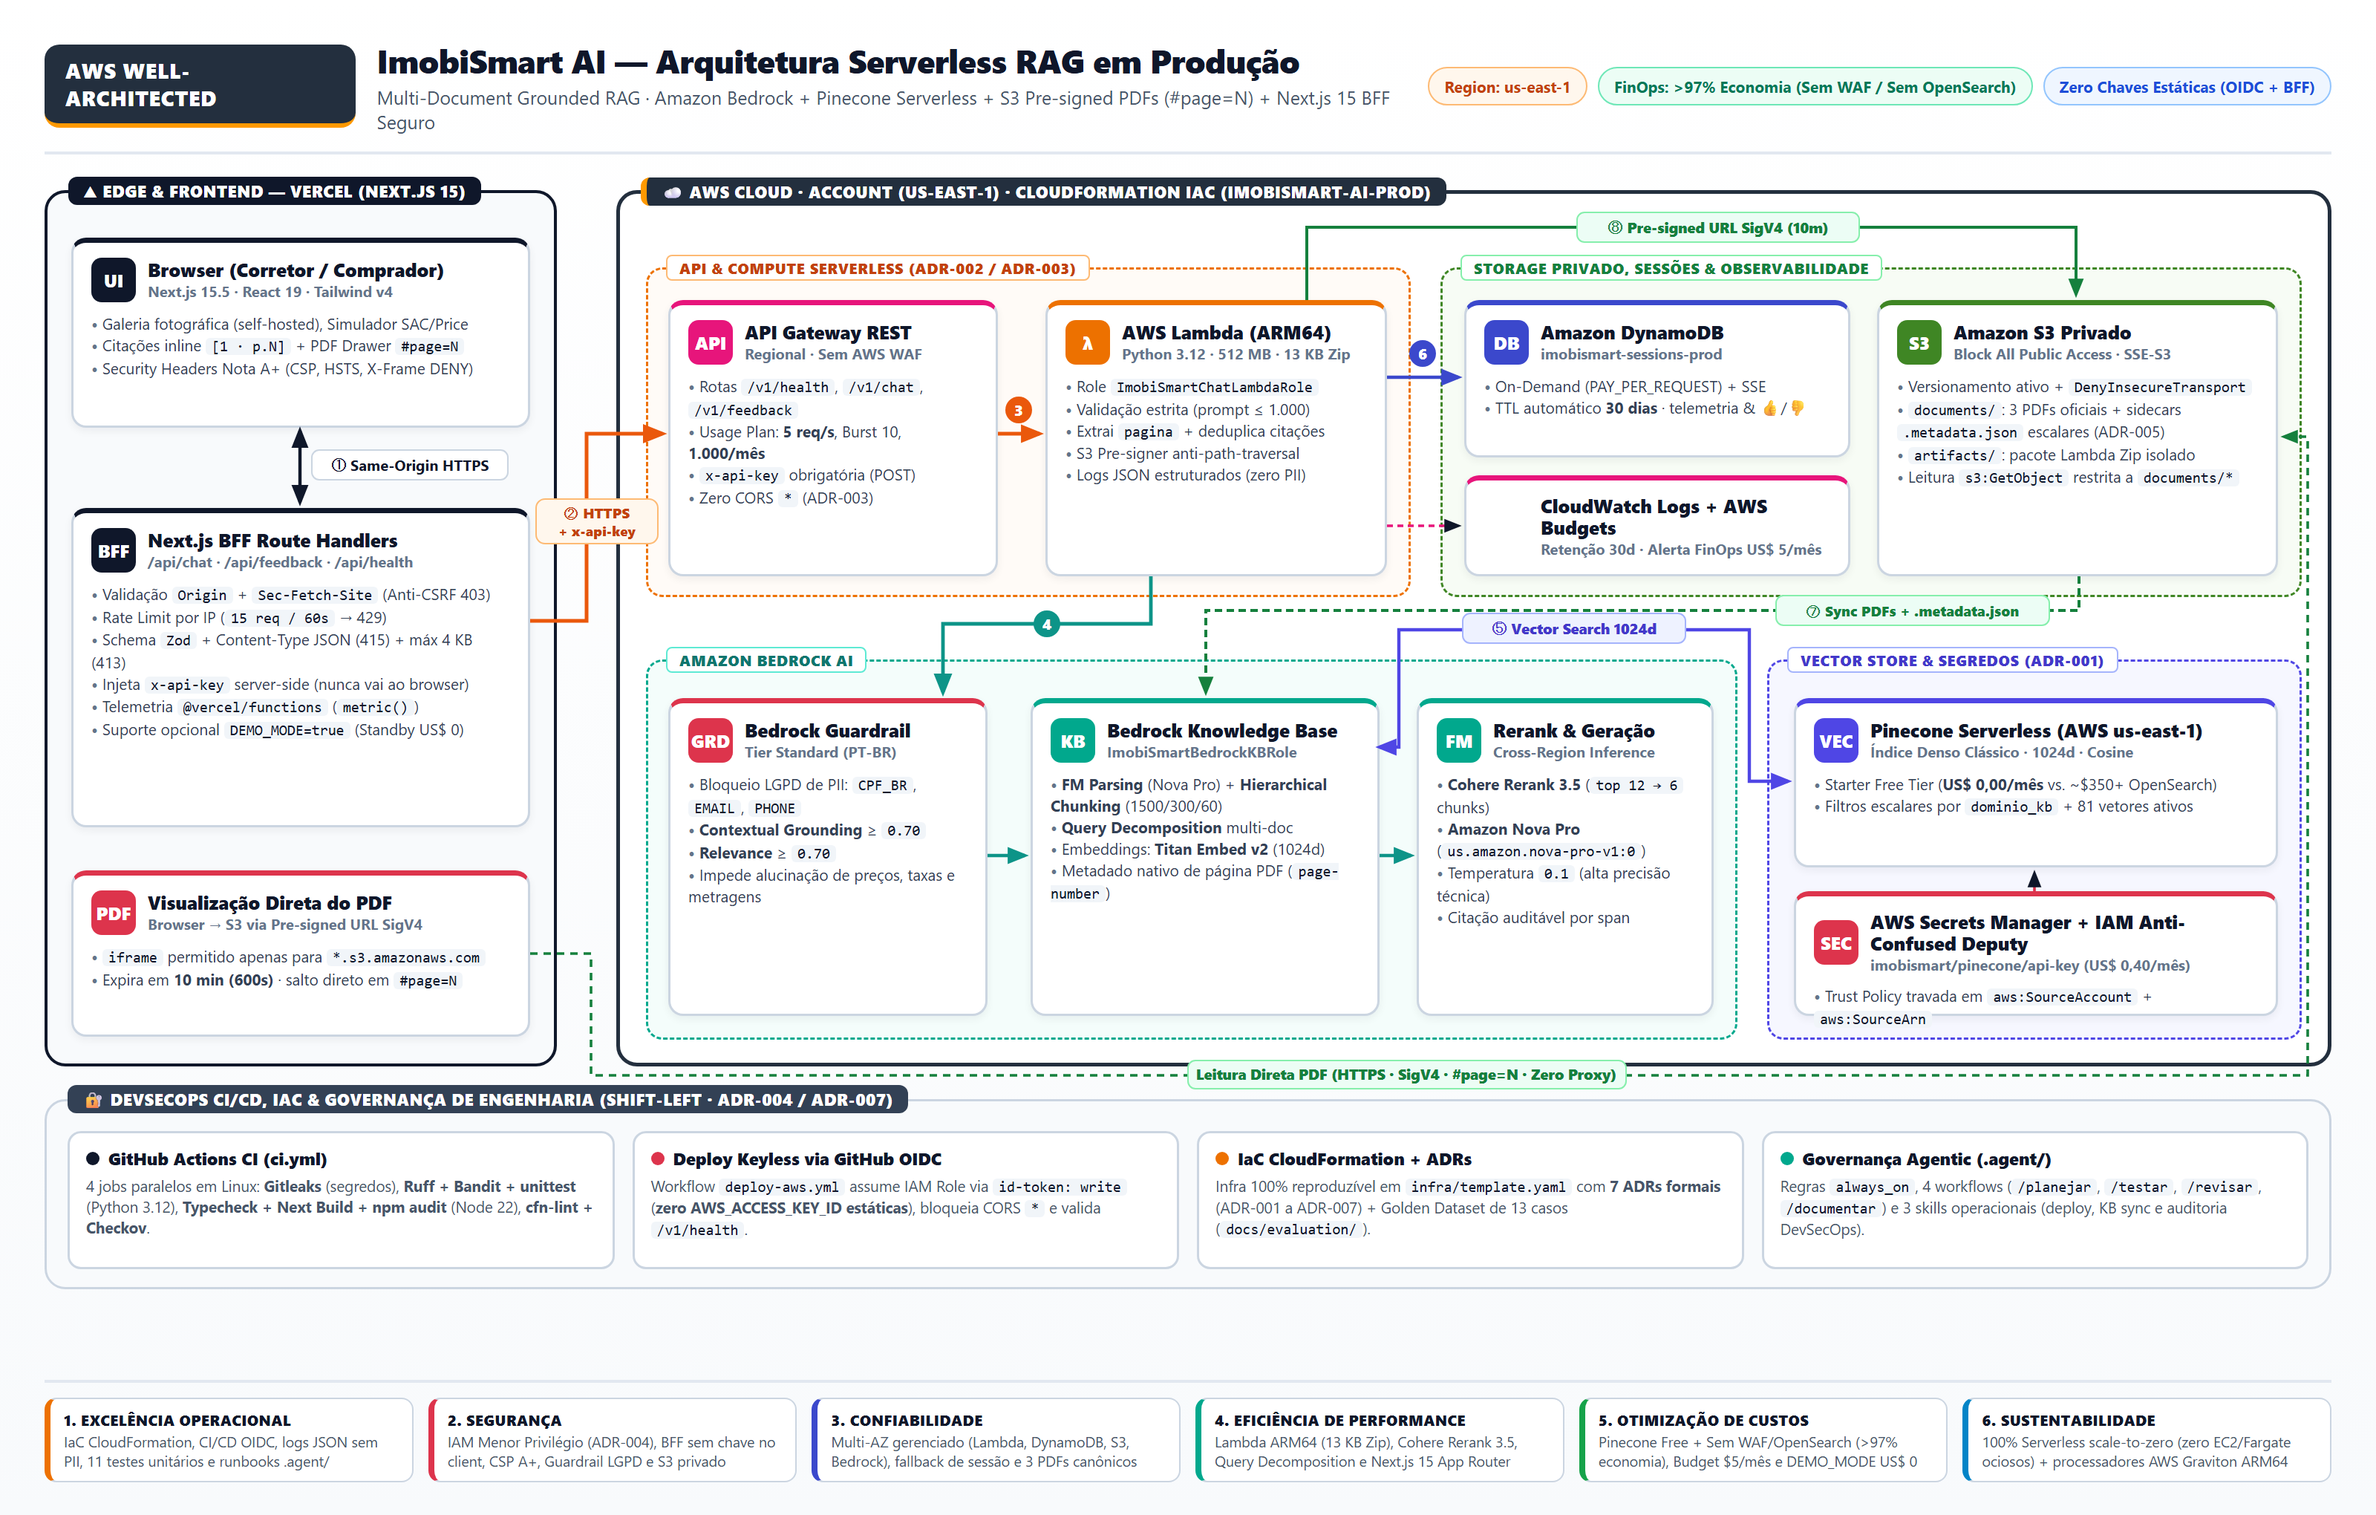
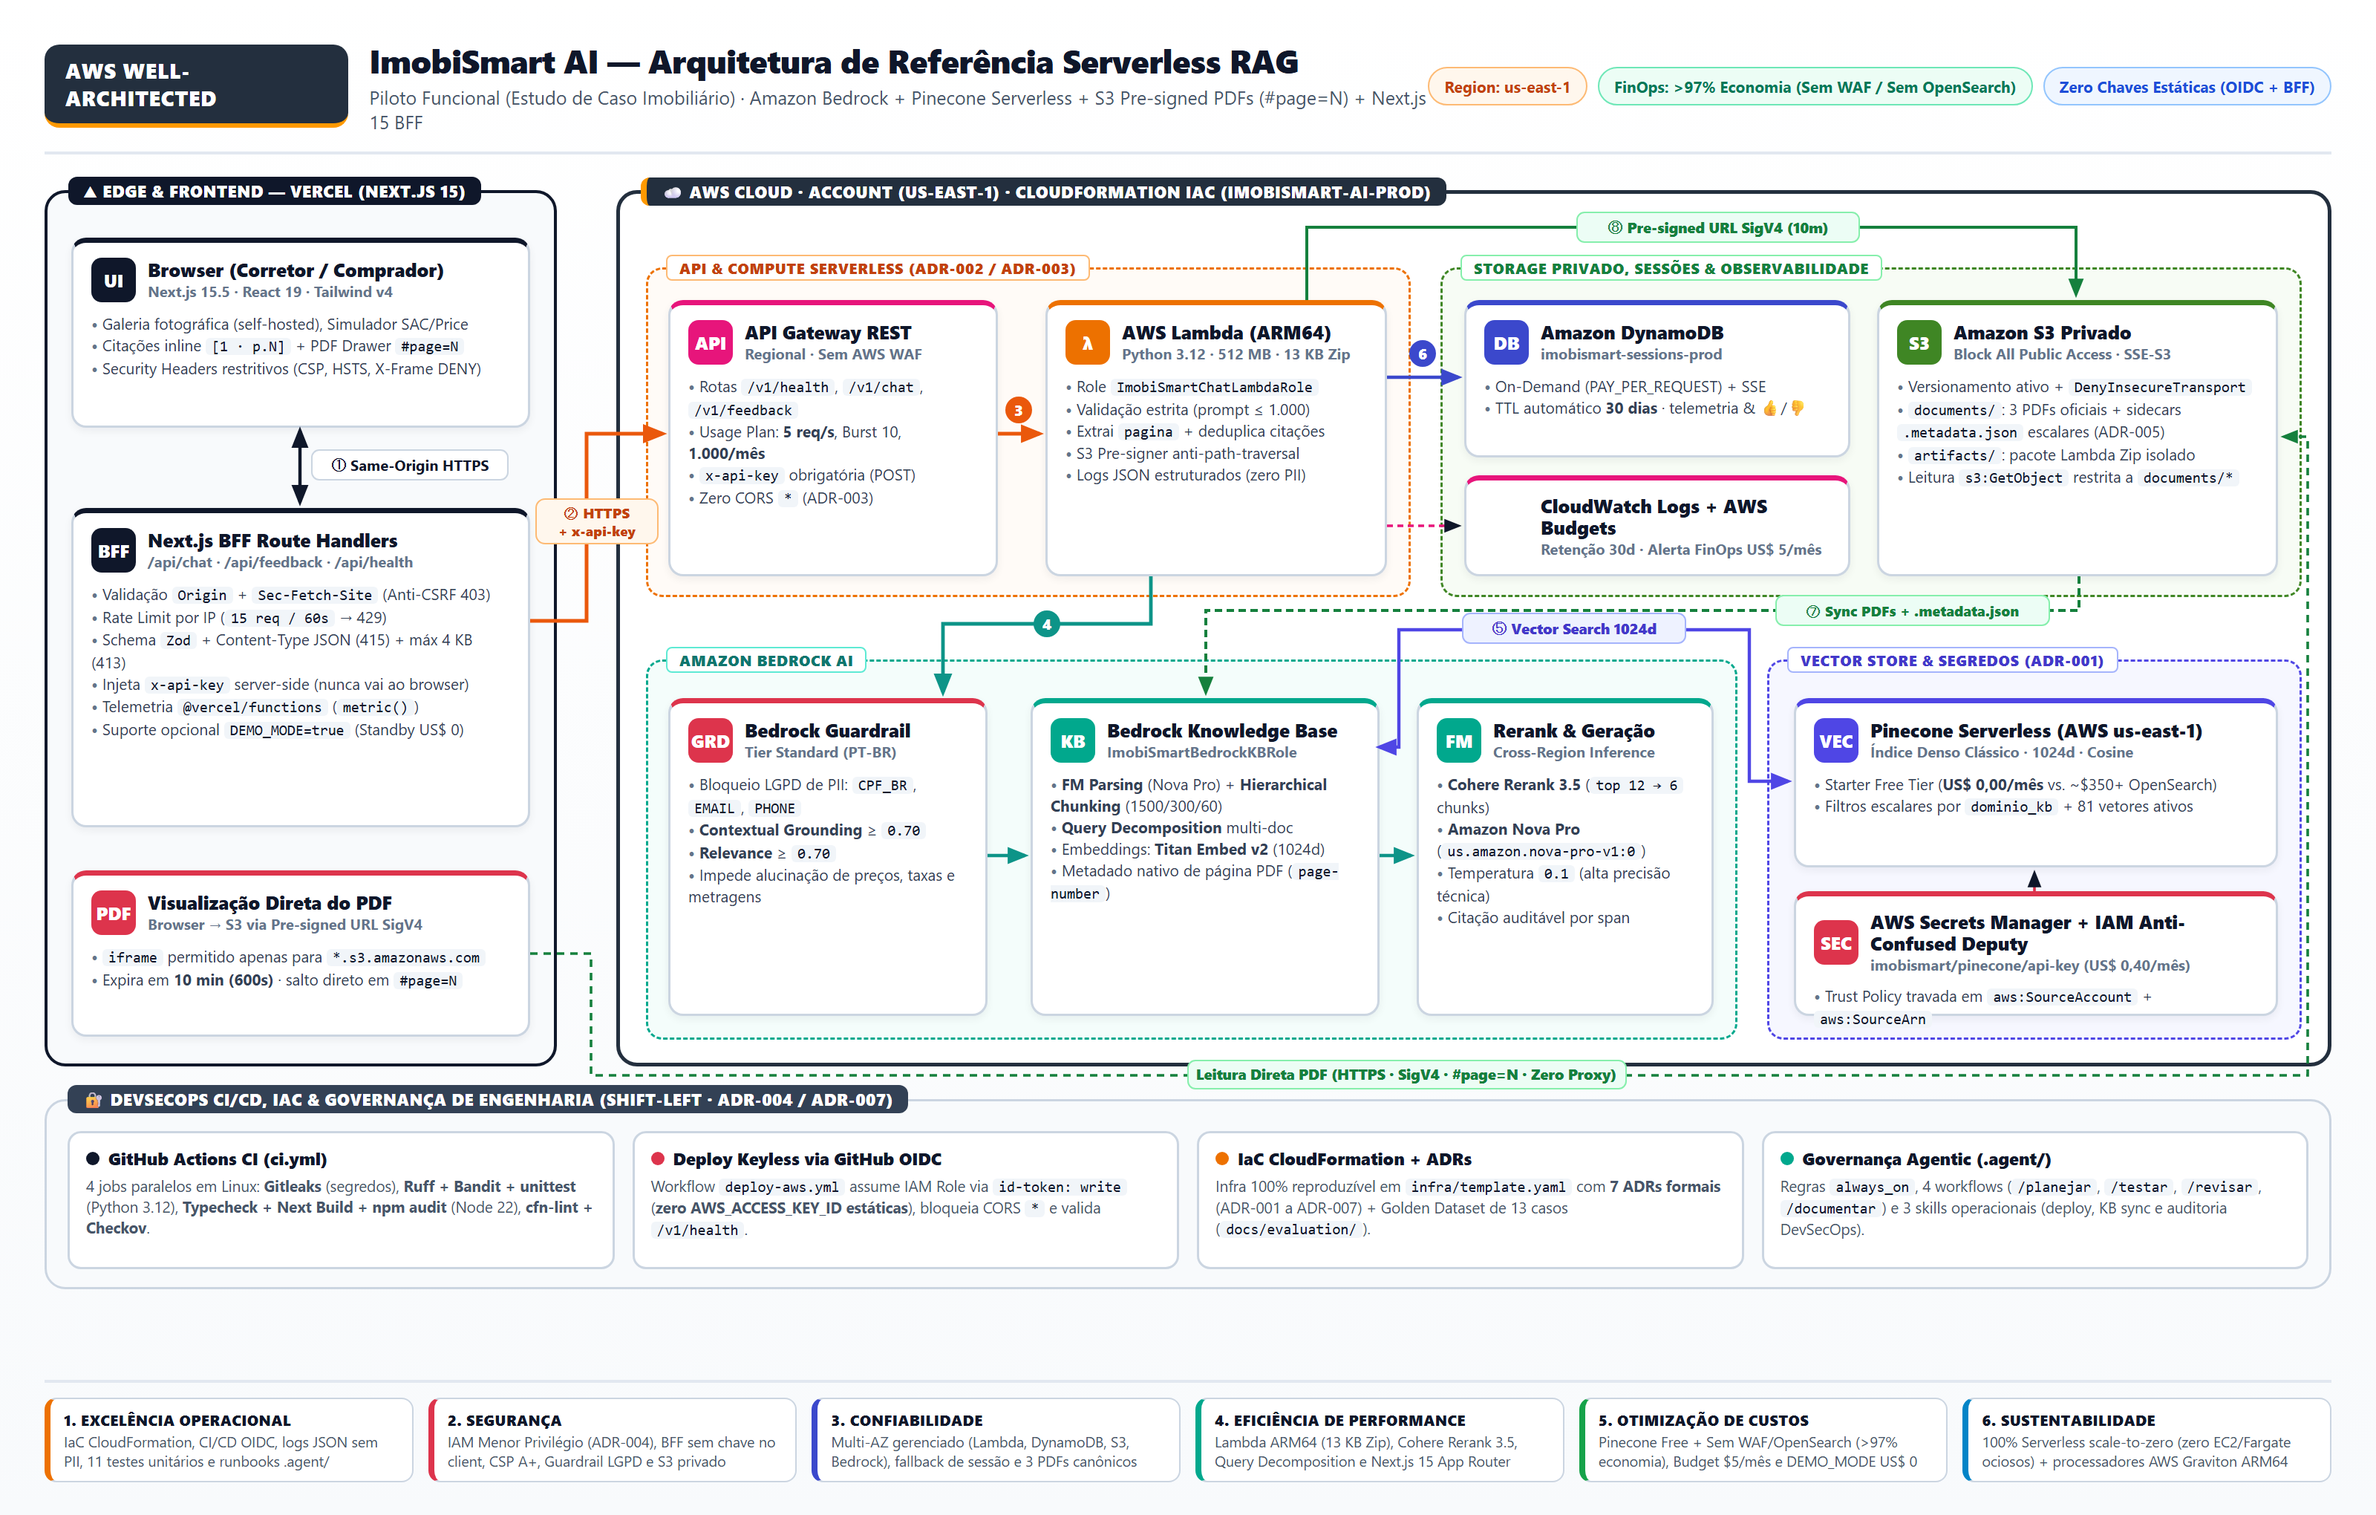
docs: frame project soberly as a Serverless RAG reference architecture and document pilot scope

Changed region(s): [[0.125, 0.0309, 0.5938, 0.0926], [0.0938, 0.2162, 0.1875, 0.2471]]

diff --git a/README.md b/README.md
@@ -8,21 +8,21 @@
 ![DevSecOps](https://img.shields.io/badge/DevSecOps-OIDC_+_Zero_Wildcard_IAM-DD344C?style=flat-square)
 ![License](https://img.shields.io/badge/License-MIT-16A34A?style=flat-square)
 
-> **Copiloto técnico-comercial RAG pronto para produção** para consulta auditável de empreendimentos, memoriais descritivos, convenção condominial e financiamento habitacional — arquitetado sob os **6 Pilares do AWS Well-Architected Framework**, com **citações determinísticas por documento e página (`#page=N`)**, **DevSecOps / IAM Menor Privilégio Rígido**, **FinOps (>97% de economia vs. OpenSearch Serverless)** e **Frontend PropTech em Next.js 15 + BFF Seguro (Security Headers Nota A+)**.
+> **Arquitetura de Referência Serverless RAG (Piloto Funcional)** aplicada a um **estudo de caso do setor imobiliário** (corpus técnico sintético de 3 PDFs) — implementada end-to-end na AWS (`us-east-1`) e Next.js 15 seguindo os **6 pilares do AWS Well-Architected Framework**, com **citações por documento e página (`#page=N`)**, **IAM de menor privilégio**, **DevSecOps** e **FinOps**.
 
-**Navegação rápida:** [Visão Geral](#-1-visão-geral--funcionalidades) · [Arquitetura AWS (PNG)](#-2-arquitetura-aws-well-architected) · [Fluxos & Sequências](#-3-diagramas-de-fluxo-rag-segurança--cicd) · [6 Pilares & FinOps](#-4-aws-well-architected-framework--finops) · [ADRs](#-5-registro-de-decisões-de-arquitetura-adrs) · [Evidências QA (.mp4)](#-6-evidências-de-qa-em-produção-mp4--screenshots) · [Stack & Monorepo](#-7-stack-verificada--estrutura-do-monorepo) · [Replicar do Zero](#-8-passo-a-passo-para-replicar-o-projeto) · [Como Testar](#-9-guia-de-testes-e-verificação)
+**Navegação rápida:** [Visão Geral](#-1-visão-geral--funcionalidades) · [Arquitetura AWS (PNG)](#-2-arquitetura-aws-well-architected) · [Fluxos & Sequências](#-3-diagramas-de-fluxo-rag-segurança--cicd) · [6 Pilares & FinOps](#-4-aws-well-architected-framework--finops) · [ADRs](#-5-registro-de-decisões-de-arquitetura-adrs) · [Evidências QA (.mp4)](#-6-evidências-de-qa-mp4--screenshots) · [Stack & Monorepo](#-7-stack-verificada--estrutura-do-monorepo) · [Replicar do Zero](#-8-passo-a-passo-para-replicar-o-projeto) · [Como Testar](#-9-guia-de-testes-e-verificação) · [Escopo & Limites](#-10-escopo-do-piloto--evolução-para-escala)
 
 ---
 
 ## 🎯 1. Visão Geral & Funcionalidades
 
-Corretores e compradores frequentemente cruzam informações dispersas em três documentos técnicos distintos (catálogo de plantas, convenção de condomínio e manual de crédito bancário). O **ImobiSmart AI** resolve esse gargalo com **RAG ancorado multi-documento** e rastreabilidade jurídica ponta a ponta:
+Este projeto é um **piloto funcional e arquitetura de referência** construído sobre um estudo de caso fictício (*ImobiSmart Incorporadora — Salvador/BA*), com um corpus sintético controlado de 3 documentos técnicos em PDF (catálogo de plantas, convenção de condomínio e manual de crédito). O objetivo é demonstrar, em código e infraestrutura reais, como estruturar um assistente **RAG multi-documento** com rastreabilidade de fontes, controles de segurança e baixo custo operacional:
 
 - **Consultas Multi-Documento com Reranking:** Amazon Bedrock Knowledge Base (*FM Parsing* com Nova Pro + *Hierarchical Chunking* `1500/300/60` + *Query Decomposition*) sobre Pinecone Serverless (`1024d`, *cosine*) com **Cohere Rerank 3.5** (`top 12 → 6`) e geração via **Amazon Nova Pro** (`temperature: 0.1`).
-- **Citações Exatas com Documento, Página e Deep-Link `#page=N`:** extração determinística de `x-amz-bedrock-kb-document-page-number`, badges inline `[1 · p.N]`, cards de fontes oficiais com título/arquivo `.pdf` e inspetor lateral (`CitationDrawer`) abrindo o PDF do S3 privado direto na página citada via **Pre-signed URL SigV4 (10 min)**.
-- **Proteção LGPD & Anti-Alucinação:** Amazon Bedrock Guardrail (`Standard`, PT-BR) bloqueando PII (`CPF_BR`, `EMAIL`, `PHONE`) e validando *Contextual Grounding* (`≥ 0.70`).
-- **Portfólio Fotográfico & Simulador SAC vs. Tabela Price:** 3 empreendimentos reais em Salvador/BA (*Residencial Horizonte Barra*, *Parque das Palmeiras Residence*, *Smart Studio Metrópole*) com enquadramento automático **SFH/FGTS vs. SFI**, desconto de 50% no 1º RGI (Lei 6.015/73), ITBI (3%), alerta de LTV > 70% na Price e regra etária bancária (`idade + prazo ≤ 80 anos e 6 meses`).
-- **Produtividade do Corretor & FinOps Standby:** filtros por persona (`Corretor`/`Comprador`) e domínio Pinecone, exportação formatada para **WhatsApp** (com fontes/páginas), feedback 👍/👎 no DynamoDB e modo opcional **`DEMO_MODE=true`** para manter o site na Vercel a **US\$ 0,00/mês** quando a AWS estiver em standby.
+- **Citações com Documento, Página e Deep-Link `#page=N`:** extração determinística de `x-amz-bedrock-kb-document-page-number`, marcações inline `[1 · p.N]`, cards de fontes com título/arquivo `.pdf` e inspetor lateral (`CitationDrawer`) abrindo o PDF do S3 privado direto na página citada via **Pre-signed URL SigV4 (10 min)**.
+- **Proteção LGPD & Controle de Alucinação:** Amazon Bedrock Guardrail (`Standard`, PT-BR) bloqueando PII (`CPF_BR`, `EMAIL`, `PHONE`) e validando *Contextual Grounding* (`≥ 0.70`).
+- **Portfólio Fotográfico & Simulador SAC vs. Tabela Price:** 3 empreendimentos do estudo de caso (*Residencial Horizonte Barra*, *Parque das Palmeiras Residence*, *Smart Studio Metrópole*) com enquadramento automático **SFH/FGTS vs. SFI**, desconto de 50% no 1º RGI (Lei 6.015/73), estimativa de ITBI (3%), alerta de LTV > 70% na Price e regra etária (`idade + prazo ≤ 80 anos e 6 meses`).
+- **Apoio ao Corretor & Standby FinOps:** filtros por persona (`Corretor`/`Comprador`) e domínio Pinecone, formatação para **WhatsApp** (com fontes/páginas), feedback 👍/👎 no DynamoDB e flag opcional **`DEMO_MODE=true`** para manter a interface navegável na Vercel a **US\$ 0,00/mês** quando a stack AWS estiver desligada.
 
 ---
 
@@ -151,7 +151,7 @@ sequenceDiagram
 | Pilar Well-Architected | Implementação Concreta no ImobiSmart AI | Referência |
 | :--- | :--- | :--- |
 | **1. Excelência Operacional** | Infraestrutura 100% IaC em CloudFormation (`infra/template.yaml`), deploy automatizado via `deploy.ps1` e GitHub Actions OIDC, logs JSON estruturados sem PII, métricas `@vercel/functions`, governança `.agent/` (regras, workflows `/` e skills) e 11 testes unitários automatizados. | [ADR-004](docs/architecture/adr/ADR-004-devsecops-e-iam-menor-privilegio.md), [ADR-007](docs/architecture/adr/ADR-007-estrategia-containers-e-ci-cd.md) |
-| **2. Segurança** | Duas roles IAM segregadas de menor privilégio (trust policy anti-*Confused Deputy* via `aws:SourceAccount`/`aws:SourceArn`), S3 privado (*Block Public Access*, `SSE-S3`, `DenyInsecureTransport`, Pre-signed URL 10 min com trava anti-*path traversal*), BFF sem `x-api-key` no browser, Security Headers Nota A+ (`CSP`, `HSTS`, `X-Frame-Options: DENY`), zero CORS `*` e Bedrock Guardrail LGPD. | [ADR-003](docs/architecture/adr/ADR-003-cors-restritivo-e-padrao-bff.md), [ADR-004](docs/architecture/adr/ADR-004-devsecops-e-iam-menor-privilegio.md) |
+| **2. Segurança** | Duas roles IAM segregadas de menor privilégio (trust policy anti-*Confused Deputy* via `aws:SourceAccount`/`aws:SourceArn`), S3 privado (*Block Public Access*, `SSE-S3`, `DenyInsecureTransport`, Pre-signed URL 10 min com trava anti-*path traversal*), BFF sem `x-api-key` no browser, Security Headers restritivos (`CSP`, `HSTS`, `X-Frame-Options: DENY`), zero CORS `*` e Bedrock Guardrail LGPD. | [ADR-003](docs/architecture/adr/ADR-003-cors-restritivo-e-padrao-bff.md), [ADR-004](docs/architecture/adr/ADR-004-devsecops-e-iam-menor-privilegio.md) |
 | **3. Confiabilidade** | Serviços 100% gerenciados e Multi-AZ nativos (API Gateway, Lambda, DynamoDB On-Demand, S3 Versionado, Bedrock), fallback automático de `sessionId` desconhecido no Bedrock, telemetria DynamoDB não-bloqueante e fonte canônica de 3 PDFs sem conflitos. | [ADR-005](docs/architecture/adr/ADR-005-fonte-canonica-kb-3-pdfs.md) |
 | **4. Eficiência de Performance** | Lambda Python 3.12 em **ARM64 (Graviton)** com pacote enxuto de **~13 KB** (sem container pesado), Cohere Rerank 3.5 + Query Decomposition, cache de Pre-signed URL por arquivo e Next.js 15 App Router com imagens self-hosted e modal lazy-loaded (`next/dynamic`). | [ADR-006](docs/architecture/adr/ADR-006-frontend-2026-nextjs-vercel-ai-sdk.md), [ADR-007](docs/architecture/adr/ADR-007-estrategia-containers-e-ci-cd.md) |
 | **5. Otimização de Custos (FinOps)** | Pinecone Serverless Starter (**US\$ 0/mês** vs. ~US\$ 350–700 do OpenSearch Serverless), defesa anti-*Denial of Wallet* em 4 camadas **sem AWS WAF**, AWS Budgets Alert (US\$ 5/mês), retenção 30d (CloudWatch/DynamoDB TTL) e `DEMO_MODE=true` na Vercel (**US\$ 0/mês** em standby). | [ADR-001](docs/architecture/adr/ADR-001-vector-store-pinecone-serverless.md), [ADR-002](docs/architecture/adr/ADR-002-rate-limiting-finops-sem-waf.md) |
@@ -185,9 +185,9 @@ Todas as decisões e trade-offs estão formalmente documentados em [docs/archite
 
 ---
 
-## 🎬 6. Evidências de QA em Produção (`.mp4` & Screenshots)
+## 🎬 6. Evidências de QA (`.mp4` & Screenshots)
 
-Todas as gravações em vídeo (`.mp4`), capturas de tela e evidências da infraestrutura AWS estão catalogadas em **[docs/evidence/README.md](docs/evidence/README.md)**:
+Todas as gravações em vídeo (`.mp4`), capturas de tela e evidências da infraestrutura na AWS estão organizadas em **[docs/evidence/README.md](docs/evidence/README.md)**:
 
 | Preview Visual | Fluxo Validado (Chrome + AWS `us-east-1`) | Gravação `.mp4` |
 | :---: | :--- | :--- |
@@ -282,7 +282,7 @@ npm --prefix apps/web run start
 
 ---
 
-### Opção B — Replicação Completa na AWS + Vercel (Produção Real)
+### Opção B — Replicação Completa na AWS + Vercel (Ambiente Real)
 
 #### Passo 1 — Bucket S3 Privado & Sincronização dos 3 PDFs Canônicos
 1. Crie um bucket S3 privado em `us-east-1` (`Block All Public Access = ON`, `Versioning = Enabled`, criptografia `SSE-S3` e bucket policy `DenyInsecureTransport`).
@@ -410,7 +410,18 @@ $env:AWS_API_KEY_ID   = "<SEU_API_KEY_ID>"
 
 ---
 
-## 👤 10. Autor & Licença
+## 📌 10. Escopo do Piloto & Evolução para Escala
+
+Para manter o projeto transparente e coerente com o teto de custo (FinOps) de um piloto / arquitetura de referência, alguns requisitos de operação corporativa em larga escala foram deliberadamente deixados fora do escopo inicial e mapeados como próximos passos:
+
+- **Autenticação & RBAC:** adicionar login corporativo (Amazon Cognito, Clerk ou SSO OIDC) com controle de perfis e isolamento multi-tenant.
+- **Rate Limiting Distribuído:** substituir o bucket em memória das Serverless Functions da Vercel por armazenamento distribuído (Upstash Redis ou Amazon DynamoDB) para consistência sob alta concorrência.
+- **Observabilidade Avançada & Borda:** ativar tracing distribuído (OpenTelemetry / AWS X-Ray), alarmes no CloudWatch e avaliar AWS WAF caso o volume de tráfego público justifique o custo fixo mensal.
+- **Multi-ambiente & Testes E2E:** promover pipelines separados (`dev` / `staging` / `prod`) com suíte E2E automatizada (Playwright) em ambiente efêmero.
+
+---
+
+## 👤 11. Autor & Licença
 
 - **Autor:** Caio Cesar
 - **Licença:** MIT — consulte [LICENSE](LICENSE).

diff --git a/docs/evidence/README.md b/docs/evidence/README.md
@@ -1,6 +1,6 @@
 # 🎬 Evidências de QA & Demonstração — ImobiSmart AI
 
-Este diretório reúne as gravações `.mp4` e capturas de tela geradas em auditoria end-to-end no Google Chrome contra a aplicação Next.js 15 + backend Serverless AWS (`us-east-1`, Amazon Bedrock Nova Pro + Pinecone Serverless + Cohere Rerank 3.5 + S3 Pre-signed URLs).
+Este diretório reúne as gravações `.mp4` e capturas de tela geradas em validação end-to-end no Google Chrome contra a aplicação Next.js 15 + backend Serverless na AWS (`us-east-1`, Amazon Bedrock Nova Pro + Pinecone Serverless + Cohere Rerank 3.5 + S3 Pre-signed URLs).
 
 > **Dica para GitHub README / PRs:** você pode arrastar qualquer arquivo `.mp4` desta pasta diretamente para o editor do README ou de uma Issue/PR no GitHub para obter o player nativo embutido.
 
